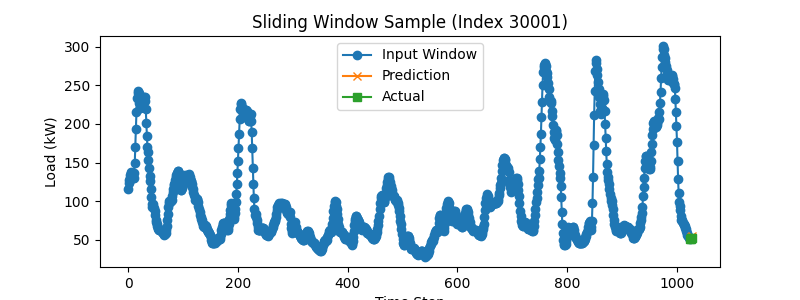
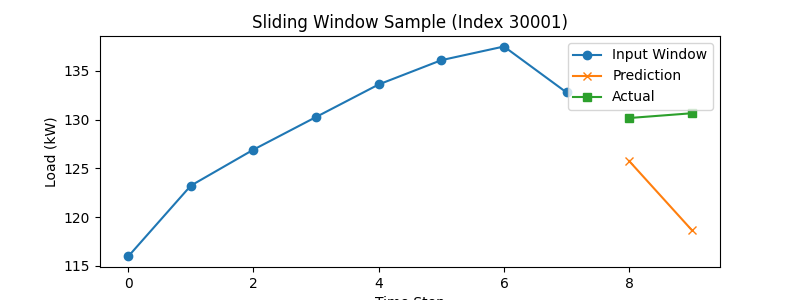
update

diff --git a/Time_Series_Prediction.py b/Time_Series_Prediction.py
@@ -7,6 +7,8 @@ from torch.utils.data import DataLoader, TensorDataset
 from sklearn.preprocessing import MinMaxScaler
 import os
 from scipy.signal import savgol_filter
+from sklearn.metrics import mean_squared_error, mean_absolute_error, r2_score
+
 
 # Set device
 device = torch.device("cuda" if torch.cuda.is_available() else "cpu")
@@ -37,7 +39,8 @@ df = df_filtered
 
 training_set = df['Load'].values.reshape(-1, 1)
 plt.plot(training_set, label='Time Series Dataset')
-plt.show()
+# plt.show()
+plt.close()
 
 def sliding_windows(data, seq_length, pred_length=4):
     x, y = [], []
@@ -51,8 +54,8 @@ def sliding_windows(data, seq_length, pred_length=4):
 # Normalize and create sequences
 sc = MinMaxScaler()
 training_data = sc.fit_transform(training_set)
-seq_length = 1024 # 4 * 24 * 7
-pred_length = 4 # Predict next 4 time steps
+seq_length = 8 # 4 * 24 * 7
+pred_length = 2 # Predict next n-time steps
 x, y = sliding_windows(training_data, seq_length, pred_length)
 
 print("x shape:", x.shape)
@@ -141,7 +144,7 @@ plt.ylabel('Load (kW)')
 plt.legend()
 plt.suptitle('Time-Series Prediction')
 plt.savefig('time_series_prediction.png')
-plt.show()
+# plt.show()
 plt.close()
 
 # Sliding window sample plots
@@ -162,5 +165,49 @@ for idx, i in enumerate(selected_indices):
     plt.ylabel('Load (kW)')
     plt.legend()
     plt.savefig(f'sliding_window_sample_{i}.png')
-    plt.show()
+    # plt.show()
     plt.close()
+
+
+# Evaluation
+mse = mean_squared_error(dataY_plot[:, 0], data_predict[:, 0])
+mae = mean_absolute_error(dataY_plot[:, 0], data_predict[:, 0])
+r2 = r2_score(dataY_plot[:, 0], data_predict[:, 0])
+
+print(f"Performance Metrics:")
+print(f"  MSE  = {mse:.4f}")
+print(f"  MAE  = {mae:.4f}")
+print(f"  R²   = {r2:.4f}")
+
+errors = data_predict[:, 0] - dataY_plot[:, 0]
+plt.figure(figsize=(6, 4))
+plt.hist(errors, bins=50, color='skyblue', edgecolor='black')
+plt.title("Prediction Error Distribution")
+plt.xlabel("Error (Predicted - Actual)")
+plt.ylabel("Frequency")
+plt.grid(True)
+plt.tight_layout()
+plt.savefig('error_distribution.png')
+# plt.show()
+plt.close()
+
+results_df = pd.DataFrame({
+    'Model': ["LSTM"],          # <--- Make sure this is ["LSTM"]
+    'MSE': [mse],               # <--- Make sure this is [mse]
+    'MAE': [mae],               # <--- Make sure this is [mae]
+    'R2': [r2],                 # <--- Make sure this is [r2]
+    'LearningRate': [learning_rate],
+    'InputSize': [input_size],
+    'HiddenSize': [hidden_size],
+    'NumLayers': [num_layers],
+    'SeqLength': [seq_length],
+    'WindowLength': [window_length],
+    'PolyOrder': [polyorder]
+})
+
+# Append to CSV file
+output_file = "model_summary_results.csv"
+if os.path.exists(output_file):
+    results_df.to_csv(output_file, mode='a', header=False, index=False)
+else:
+    results_df.to_csv(output_file, mode='w', header=True, index=False)
